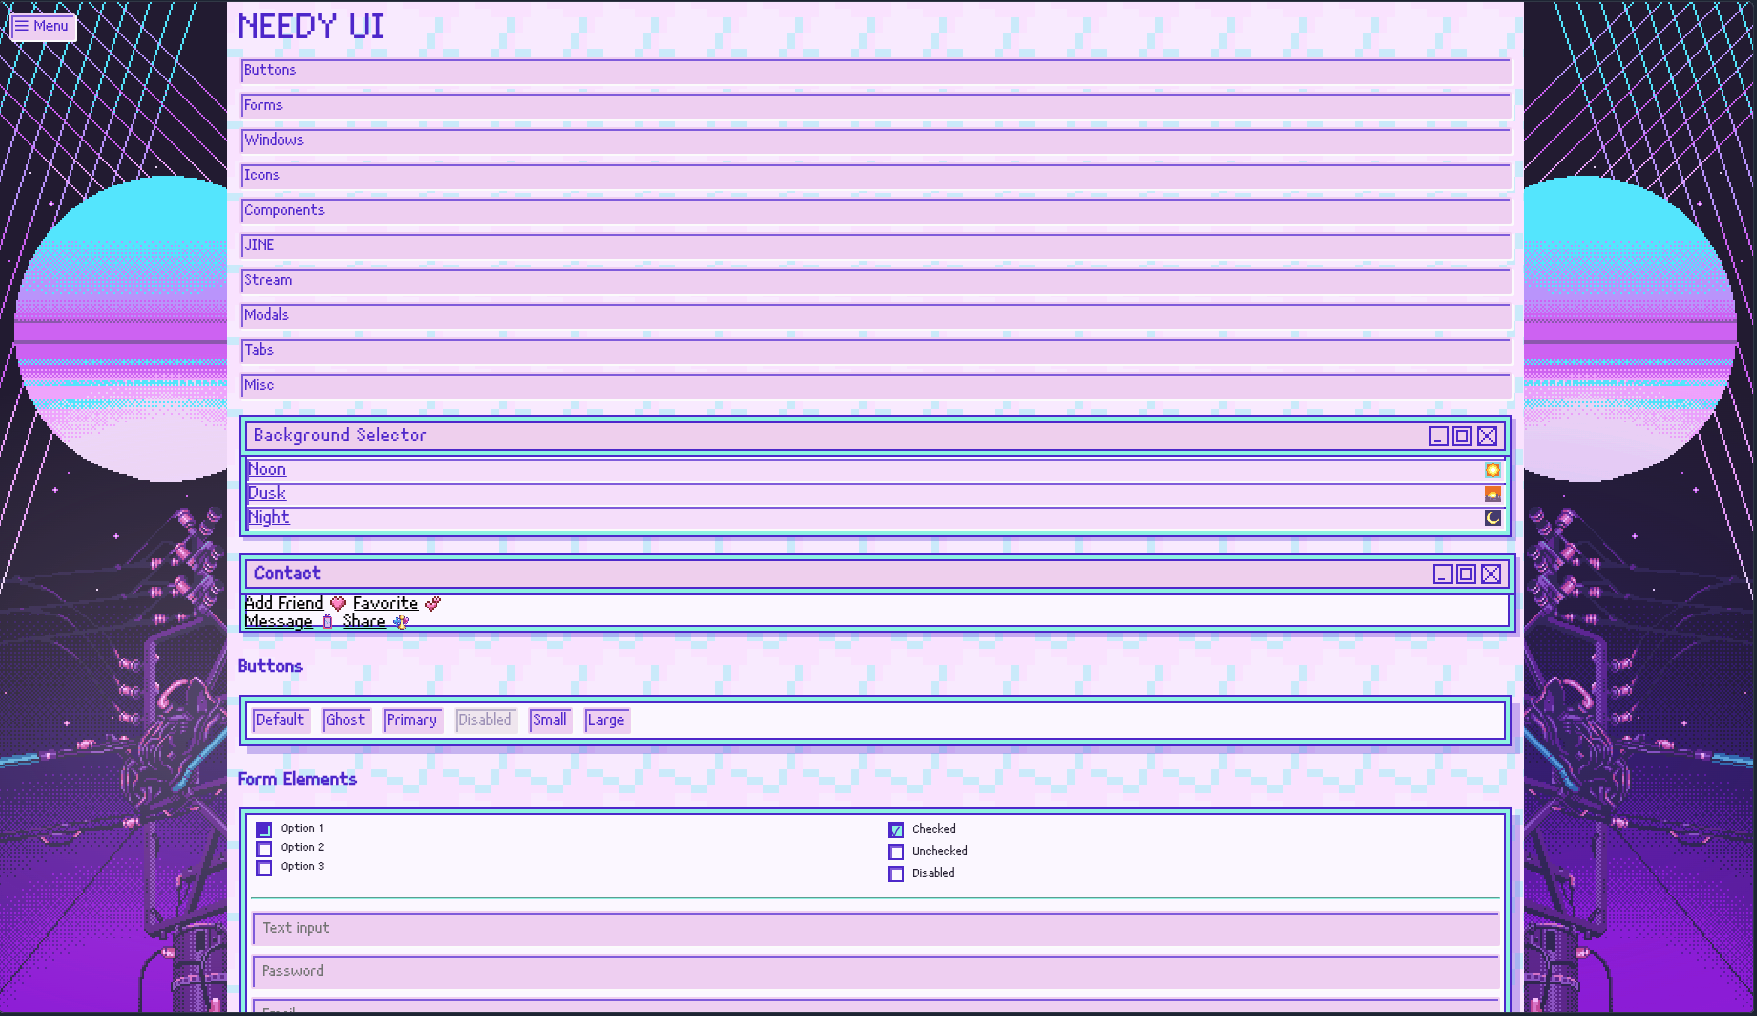
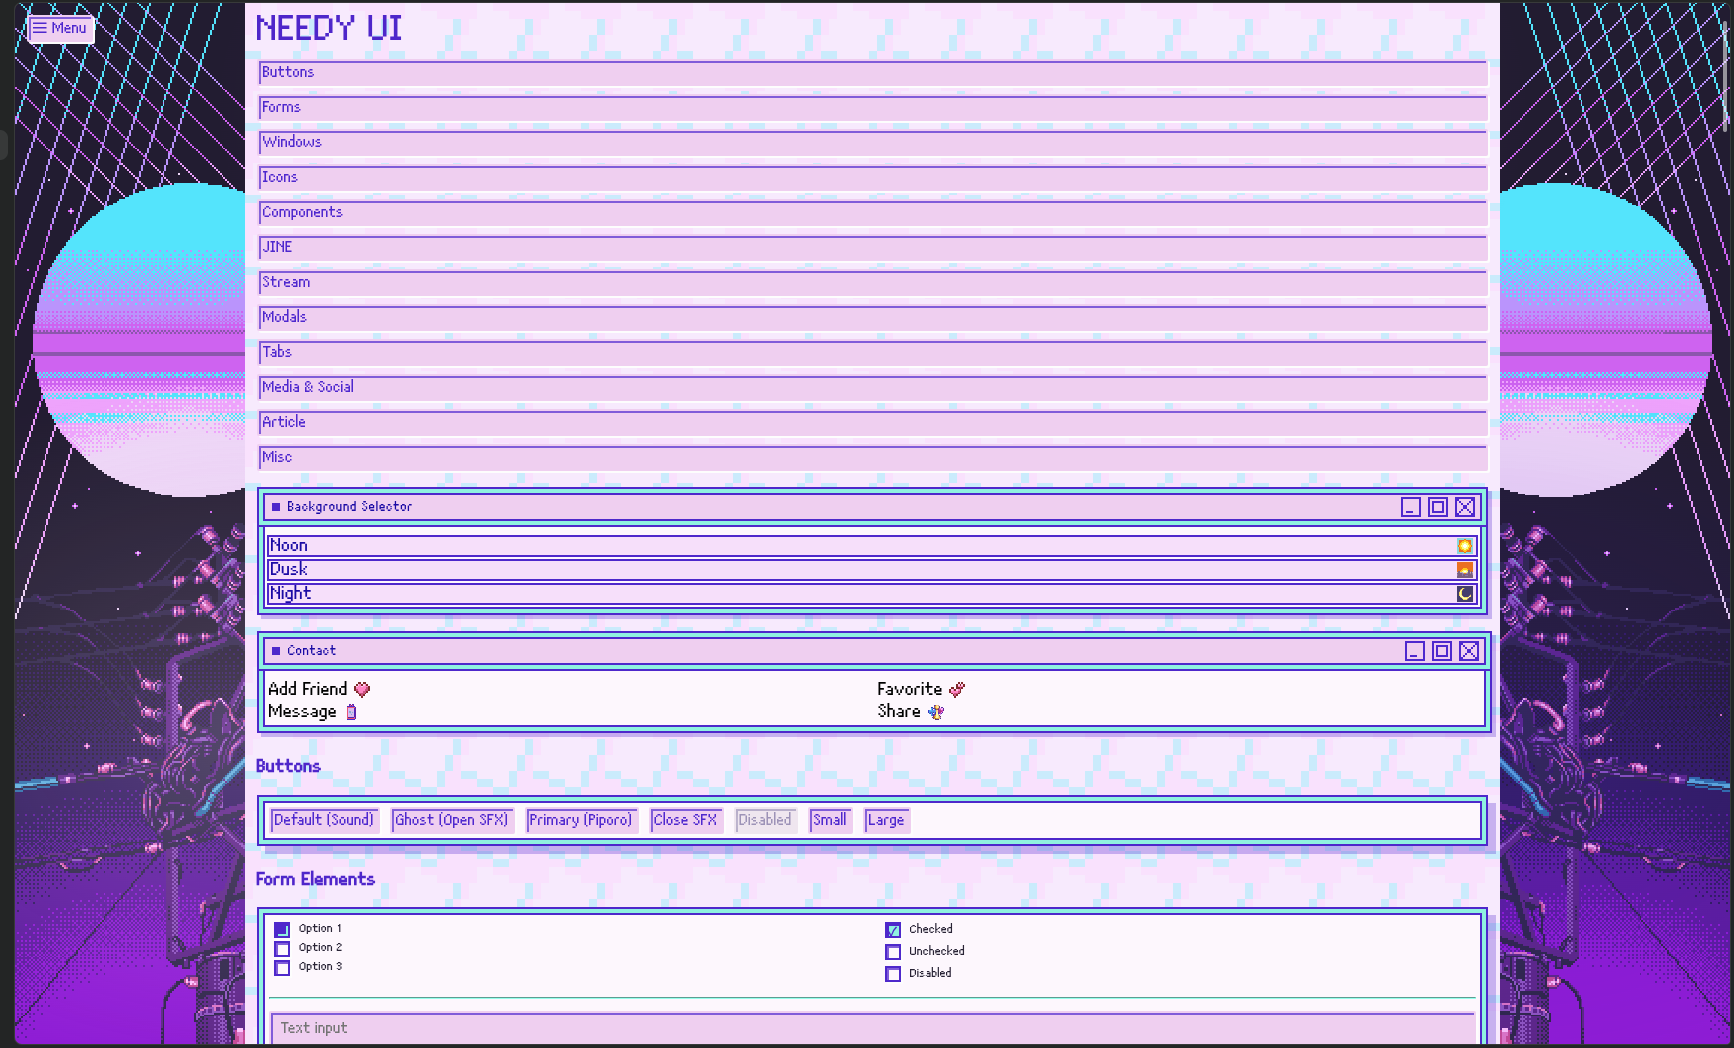
fix ReadME

diff --git a/AGENTS.md b/AGENTS.md
@@ -7,35 +7,56 @@ A dependency-free CSS component library that ports the UI from *Needy Streamer O
 ## Project structure
 
 ```
-nso_ui.css            ← entry point (imports 6 modules)
-css/base.css          ← core styles, variables, layout, utilities (~2694 lines)
-css/components.css    ← buttons, modals, tabs, tooltips, toggles, etc. (~738 lines)
+nso_ui.css            ← entry point (imports 7 modules)
+css/base.css          ← core styles, variables, layout, utilities, legacy game-port blocks (~2700 lines)
+css/components.css    ← buttons, titlebars, windows, players, status rows, loaders, tabs, accordions, etc.
 css/article.css       ← article/reading layout, callouts, code blocks, risk badges, tables
 css/icons.css         ← icon system via CSS custom properties (~160 icons)
 css/hljs-nso.css      ← highlight.js theme (brand palette: purple/teal/pink)
 css/sidebar.css       ← sliding sidebar nav
-css/stream.css        ← live-stream window layout
+css/stream.css        ← live-stream window layout + live chat list
+css/feed.css          ← Tweeter-style post feed (queue, reveal animations)
 examples/index.html   ← full component showcase / demo
-examples/nso_ui.css   ← example-local copy of the entry point
+examples/nso_ui.css   ← example-local copy of the entry point (imports ../css/*)
 examples/nso.js       ← vanilla JS for interactive components (global window.NSO)
 fonts/                ← DinkieBitmap-9px.woff2 (pixel font — core to aesthetic)
-background/           ← tile/background PNGs (day/dusk/night themes)
+background/           ← tile/background PNGs (day/dusk/night themes, JINE chat bg, JINE_date pill)
 icons/                ← game icon PNGs (emotes, achievements, reactions)
-ui/                   ← cursor, nav button sprites
+icons/kusoripu/       ← 32 reply-avatar icons (icon_kusoripu_*), used randomly like the game
+ui/                   ← cursor, nav button sprites, comment icon, window buttons, status & loading frames
+ui/status/            ← status icons (follower, stress, love, yami) for status rows
+ui/loading/           ← 8 loader frames (recoloured to text color, see below)
 ```
 
-## Build / dev / test
 
-There are none. CSS files are used as-is by browsers. To preview: open `examples/index.html` in a browser (use a local server to avoid CORS issues with `@import`).
+## Source of truth: the game
+
+Before styling a game element, check the game's own data in the export, don't guess. Useful places:
+- Prefabs (`GameObject/*.prefab`, YAML text): colours (`m_Color`, `m_fontColor`), font sizes, RectTransform sizes, sprite GUIDs.
+- Scripts (`Scripts/Assembly-CSharp/ngov3/*.cs`): behaviour, timings (`DOTween` durations), colour arrays.
+- Textures (`Texture2D/*.png`) and sprites (`Sprite/*.asset`, `m_Border` = left, bottom, right, top).
+- Map a sprite to a file: sprite `.asset` → `texture` GUID → `Texture2D/*.meta`.
+
+Known canon values (use these, not palette guesses):
+- Window frame: outer 2px `#4D23CD`, 4px `#90F4E4`, 2px `#4D23CD`, then content (`WindowBase2D`).
+- Titlebar: 26px high, bg `#F0D1F1`, icon 8×8 `#4D23CD` at x=13, title `#1403A6`, three 27×27 buttons with 20×20 icons (min, max, close from `Texture2D/button_*.png`).
+- Status text (name and value): `#1403A6`; arrow down `#CC1415`; arrow up `#1239E5` (2D) or `#5D8CFF` (non-2D); `->` `#6B57B0`.
+- Tweeter post: avatar 51×51 left, user `#527CE7`, body `#4D23CD`, date `#888888`, photo under text, RT `#409C52`, fav `#B7B465`, replies with kusoripu avatars.
+- JINE bubble: other `#CDECFD`, self `#4CF653`, text `#1403A6`, rectangular (9-slice texture `JINE_date_0.png`, border 7px, is the bubble sprite; its corners are antialiased in the texture).
+- Live comments: `CommentIcon` 16px, superchat colours `#E75252 #A1B7F0 #8BD5FF #8DFFC6 #FAFF8D #FFCA10 #EAA0E8`, delete icon `icon_trash_can` on hover, text `#4D23CD`, width 380.
+- Tweeter loader: 8 frames 18×18 (`icon_loading_poketter_000…007`), no text.
+- Stream timer and graphs are library-only (no game source found).
 
 ## CSS conventions
 
-- **Prefix:** all new components use `nso-` (e.g. `nso-btn`, `nso-modal`, `nso-tabs`)
+- **Prefix:** all new components use `nso-` (e.g. `nso-btn`, `nso-modal`, `nso-tabs`, `nso-titlebar`, `nso-status`, `nso-feed`)
 - **BEM-like:** `nso-btn--ghost`, `nso-modal__content`, `nso-tabs__tab--active`
-- **State toggling:** CSS class switches (e.g. `nso-sidebar--open`, `nso-modal--open`)
+- **State toggling:** CSS class switches (e.g. `nso-sidebar--open`, `nso-modal--open`, `nso-accordion--open`)
 - **Utilities:** `u-` prefix (e.g. `u-mt16`, `u-flex`, `u-w-full`)
 - **Icons:** `.nso-icon` base + modifier class sets `--nso-icon` CSS custom property
-- **Legacy classes:** older game-port styles use non-prefixed names (`noonbutton`, `duskbutton`, `nightbutton`, `contact`, `profile`, etc.) — do not rename these
+- **Legacy classes:** older game-port styles use non-prefixed names (`noonbutton`, `duskbutton`, `nightbutton`, `contact`, `profile`, `heading`, `f-row`, etc.) — do not rename these
+- **Overriding legacy:** legacy rules in `base.css` have high specificity and sometimes set `background-image` (navbuttons sprites). Override them in `components.css` at the end of the file, and use `!important` only for background-image/padding when specificity can't win (see `.nso-titlebar`)
+- **Shared frame:** windows, tabs, the player and the sidebar use the same layered frame (outer border, teal layer, inner border). Build frames with nested elements, not stacked `box-shadow`s
 
 ## Brand palette
 
@@ -46,15 +67,43 @@ There are none. CSS files are used as-is by browsers. To preview: open `examples
 --color-bg: #FDF8FD        /* near-white */
 ```
 
-Do not introduce new colors without reason. The palette is intentionally limited.
+Do not introduce new colors without reason. Game colours from the prefabs (above) are a valid reason. The palette is intentionally limited.
+
+## Components added recently
+
+- `.heading.nso-titlebar` (+ `.nso-titlebar__icon`, `.nso-titlebar__buttons`): standard window titlebar. Used by every demo window heading and the sidebar.
+- `.nso-feed` (+ `.nso-feed__loading`, `.nso-feed__empty`): post list with a queue (`NSO.feedPush`), open/fade reveal and reply reveal. Posts are `.nso-tweet` cards, see the Tweeter canon above.
+- `.nso-player` (+ `--sm`): music player. Frame, titlebar, cover slot (`.nso-player__cover`, swap `♪` for an `<img>`), marquee title (`.nso-player__title--scroll`), play button, volume slider. The game's `MediaPlayer.cs` has no artwork.
+- `.nso-status` (+ `__icon`, `__head`, `__diff--up/down`, `__new`): status row with icon, name, value, change arrows and a bar.
+- `.nso-loader` (+ `--lg`): 8-frame loader, colour baked into the frames (`#1403A6`).
+- `.nso-tabs` (+ `__frame`, `__nav`, `__tab--active`): tabs with the window frame.
+- `.nso-accordion`: grid-rows animation (0fr → 1fr), arrow rotates.
+- Stream chat (`.nso-stream__chat-msg`): comment rows with superchat colour variants `nso-stream__chat-msg--red|blue|cyan|lightgreen|yellow|orange|magenta`; click deletes (fade out).
+
+## Motion
+
+Animations come from the game where the source gives timings: window open and reveal use `steps()`-style pixel timing, feed reveal uses `PoketterCell.Show()` (1000 ms scale, 300 ms fade). Everything is disabled under `prefers-reduced-motion: reduce`.
+
+## JS (`examples/nso.js`, global `window.NSO`)
+
+- `NSO.init()` runs all `init*` methods on DOM ready.
+- `NSO.switchBg(cls)`: sets the day/dusk/night class (`noonbg|duskbg|nightbg`) on the root `.nightbg/.noonbg/.duskbg` element.
+- `NSO.feedPush(feed, node)`: queues a post node into `.nso-feed`; `NSO.feedPump(feed)` drains the queue one by one.
+- `NSO.randomKusoripu()`: returns a random reply-avatar path (same list as `TweetFetcher._suteakaIconList`).
+- `NSO.initProgressBars()`: canvas graphs for `.nso-progress` (history per element).
+- `NSO.initPlayer()`: play toggle, volume readout, marquee calculation for `.nso-player`.
+- `NSO.initStreamChat()`: click-to-delete on `.nso-stream__chat-msg`.
+- `NSO.closeSidebar(sel)`, `NSO.initAccordions()`, `NSO.initTabs()`, `NSO.initToast()`, `NSO.initSfx()` as before.
 
 ## Key quirks
 
 - `base.css` contains duplicated style blocks (copy-paste from game port). Leave them alone unless actively consolidating — they're not bugs.
+- `.profile .table-section > .inner` has `padding: 8px` (from `components.css`). Windows that need edge-to-edge content must reset it (`.jine-panel`, `.nso-sidebar` do).
+- `.nso-sidebar` and `.jine-panel` have their own overrides at the end of `components.css`; check there before changing shared window rules.
+- `.nso-progress` canvas colours come from the CSS variables `--nso-progress-track/fill/line`; the bars in `components.css` (`.nso-progress-bar`) use palette/game colours.
 - Icon system: each icon class sets `--nso-icon: url(...)` on a CSS custom property; `.nso-icon` uses `background: var(--nso-icon)`. Icon size via `--nso-icon-size`.
-- Background day/dusk/night switching: toggle `noonbg`/`duskbg`/`nightbg` classes on container.
-- Canvas-based progress bars in `nso.js` create animated graph elements with history tracking.
+- Background day/dusk/night switching: `NSO.switchBg` toggles the classes on the root element. The day/dusk/night art is `::before` on the root; `.container` has its own tile background that covers it in the centre, so the theme only shows at the edges unless `.container` is made transparent (see the notes in `components.css`).
 - The pixel-art aesthetic is intentional: `image-rendering: pixelated`, bitmap font, custom cursor.
-- Game-specific terminology in class names (`JINE`, `shinanegen`) is canonical — do not "translate" to generic names.
-- Distribution via CDN: `cdn.jsdelivr.net/gh/ArThirtyFour/NeedyWebUI@main/nso_ui.css`.
+- Game-specific terminology in class names (`JINE`, `shinanegen`, `Tweeter`, `Poketter`) is canonical — do not "translate" to generic names.
+- Distribution via CDN: `cdn.jsdelivr.net/gh/ArThirtyFour/NeedyWebUI@main/nso_ui.css`. Note: the CDN serves the last pushed commit, not the working tree.
 - highlight.js theme (`css/hljs-nso.css`) uses brand palette colors on `#2a1b4d` background — load highlight.js core from CDN separately, theme is included in `nso_ui.css`.

diff --git a/README.md b/README.md
@@ -50,4 +50,7 @@ Add to your HTML `<head>`:
 
 ---
 
-Big thanks [Needy Streamer Overload Skin by lezzthanthree/AR34 (me)](https://github.com/ArThirtyFour/Russian-Needy-Streamer-Overload) for the desktop UI assets and visual guidelines 
+Big thanks 
+* [Needy Streamer Overload Skin by lezzthanthree/AR34 (me)](https://github.com/ArThirtyFour/Russian-Needy-Streamer-Overload) for the desktop UI assets and visual guidelines 
+
+* Original Game for assests  ![alt text](image.png)
